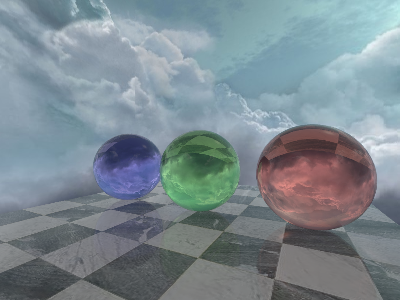
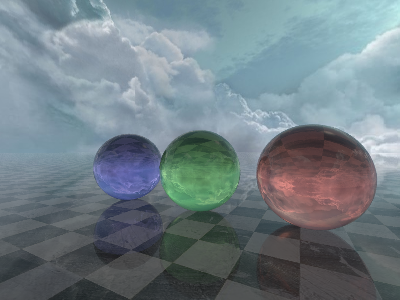
more code cleanup

diff --git a/example2.py b/example2.py
@@ -1,35 +1,41 @@
-# Import the necessary modules
-
-
 from sightpy import *
 
 
+# define materials to use
+
+blue_glass = Refractive(n = vec3(1.5 + 4e-8j,1.5 +  4e-8j,1.5 +  0.j)) # n = index of refraction
+green_glass = Refractive(n = vec3(1.5 + 4e-8j,1.5 + 0.j,1.5 + 4e-8j))
+red_glass = Refractive(n = vec3(1.5 + 0.j,1.5 +  5e-8j,1.5 +  5e-8j))
+
+floor = Glossy(diff_color = image("checkered_floor.png", repeat = 80.), n = vec3(1.2+ 0.3j, 1.2+ 0.3j, 1.1+ 0.3j), roughness = 0.2, spec_coeff = 0.3, diff_coeff = 0.9)
+
 # Set Scene 
 
-Sc = Scene()
+Sc = Scene(ambient_color = rgb(0.05, 0.05, 0.05))
+
 angle = np.pi/2 * 0.3
-Sc.add_Camera(look_from = vec3(2.5*np.sin(angle), 0.25, 2.5*np.cos(angle)  -1.5 ), look_at = vec3(0., 0.25, -1.5), 
-	          screen_width = 400 ,screen_height =300,
-	          samples_per_pixel = 4)
+Sc.add_Camera(look_from = vec3(2.5*np.sin(angle), 0.25, 2.5*np.cos(angle)  -1.5 ), 
+			  look_at = vec3(0., 0.25, -1.5), 
+	          screen_width = 400 ,
+	          screen_height =300)
 
 
-Sc.add_DirectionalLight(Ldir = vec3(0.0,0.5, 0.5),  color = rgb(0.5, 0.5, 0.5))
+Sc.add_DirectionalLight(Ldir = vec3(0.52,0.45, -0.5),  color = rgb(0.15, 0.15, 0.15))
 
-#blue_glass,red_glass and green_glass are defined in sightpy/materials/glasses.py
-Sc.add_Surface(Sphere(material = blue_glass, center = vec3(-1.2, 0.0, -1.5), radius = .5, shadow = False))
-Sc.add_Surface(Sphere(material = green_glass, center = vec3(0., 0.0, -1.5), radius = .5, shadow = False))
-Sc.add_Surface(Sphere(material = red_glass, center = vec3(1.2, 0.0, -1.5), radius = .5, shadow = False))
 
-#floor is defined in sightpy/materials/floor.py
-floor.set_texture("checkered_floor.png", repeat = 2.)
-Sc.add_Surface(Plane(material = floor,  center = vec3(0, -0.5, -1.5), width = 4.0,height = 4.0, pu = vec3(1.0, 0, 0), pv = vec3(0, 0, -1.0)))
+Sc.add(Sphere(material = blue_glass, center = vec3(-1.2, 0.0, -1.5), radius = .5, shadow = False ,max_ray_depth = 3))
+Sc.add(Sphere(material = green_glass, center = vec3(0., 0.0, -1.5), radius = .5, shadow = False,max_ray_depth = 3))
+Sc.add(Sphere(material = red_glass, center = vec3(1.2, 0.0, -1.5), radius = .5, shadow = False,max_ray_depth = 3))
 
-#see sightpy\backgrounds
+Sc.add(Plane(material = floor,  center = vec3(0, -0.5, -3.0), width = 120.0,height = 120.0, u_axis = vec3(1.0, 0, 0), v_axis = vec3(0, 0, -1.0) ,max_ray_depth = 3))
+
+
+#see sightpy/backgrounds
 Sc.add_Background("miramar.jpeg")
 
 
 # Render 
-img = Sc.render()
+img = Sc.render(samples_per_pixel = 7)
 
 img.save("EXAMPLE2.png")
 

diff --git a/example1.py b/example1.py
@@ -1,36 +1,45 @@
 from sightpy import *
 
+# define materials to use
+
+gold_metal = Glossy(diff_color = rgb(1., .572, .184), n = vec3(0.15+3.58j, 0.4+2.37j, 1.54+1.91j), roughness = 0.0, spec_coeff = 0.2, diff_coeff= 0.8) # n = index of refraction
+bluish_metal = Glossy(diff_color = rgb(0.0, 0, 0.1), n = vec3(1.3+1.91j, 1.3+1.91j, 1.4+2.91j), roughness = 0.2,spec_coeff = 0.5, diff_coeff= 0.3)
+
+floor =  Glossy(diff_color = image("checkered_floor.png", repeat = 80.),   
+	            n = vec3(1.2+ 0.3j, 1.2+ 0.3j, 1.1+ 0.3j), roughness = 0.2, spec_coeff = 0.3, diff_coeff= 0.9 )
+
+
+
+
 
 # Set Scene 
 Sc = Scene(ambient_color = rgb(0.05, 0.05, 0.05))
 
 
 angle = -np.pi/2 * 0.3
-Sc.add_Camera(look_from = vec3(2.5*np.sin(angle), 0.25, 2.5*np.cos(angle)  -1.5 ), look_at = vec3(0., 0.25, -3.), 
-	          screen_width = 400 ,screen_height = 300,  
-	          samples_per_pixel = 4) #antialiasing
+Sc.add_Camera(look_from = vec3(2.5*np.sin(angle), 0.25, 2.5*np.cos(angle)  -1.5 ), 
+			  look_at = vec3(0., 0.25, -3.), 
+	          screen_width = 400 ,
+	          screen_height = 300)
 
 
 
 Sc.add_DirectionalLight(Ldir = vec3(0.52,0.45, -0.5),  color = rgb(0.15, 0.15, 0.15))
 
 
-#gold_metal and bluish_metal are defined in sightpy/materials/metals.py
-Sc.add_Surface(Sphere(material = gold_metal, center = vec3(-.75, .1, -3.),radius =  .6))
-Sc.add_Surface(Sphere(material = bluish_metal, center = vec3(1.25, .1, -3.), radius = .6))
+Sc.add(Sphere(material = gold_metal, center = vec3(-.75, .1, -3.),radius =  .6, max_ray_depth = 3))
+Sc.add(Sphere(material = bluish_metal, center = vec3(1.25, .1, -3.), radius = .6, max_ray_depth = 3))
 
-#floor is defined in sightpy/materials/floor.py
-floor.set_texture("checkered_floor.png", repeat = 80.)
-Sc.add_Surface(Plane(material = floor,  center = vec3(0, -0.5, -3.0), width = 120.0,height = 120.0, pu = vec3(1.0, 0, 0), pv = vec3(0, 0, -1.0)))
+Sc.add(Plane(material = floor,  center = vec3(0, -0.5, -3.0), width = 120.0,height = 120.0, u_axis = vec3(1.0, 0, 0), v_axis = vec3(0, 0, -1.0),  max_ray_depth = 3))
 
-#see sightpy\backgrounds
+#see sightpy/backgrounds
 Sc.add_Background("stormydays.png")
 
 
 
 
 # Render 
-img = Sc.render()
+img = Sc.render(samples_per_pixel = 6)
 
 img.save("EXAMPLE1.png")
 

diff --git a/example3.py b/example3.py
@@ -1,32 +1,34 @@
 from sightpy import *
 
+# define materials to use
+
+floor = Glossy(diff_color = image("checkered_floor.png", repeat = 2.),  roughness = 0.2, spec_coeff = 0.3, diff_coeff = 0.7, n = vec3(2.2, 2.2, 2.2)) # n = index of refraction
+green_glass = Refractive(n = vec3(1.5 + 4e-8j,1.5 + 0.j,1.5 + 4e-8j)) 
+
 
 # Set Scene 
 
 Sc = Scene()
 Sc.add_Camera(look_from = vec3(0., 0.25, 1. ), look_at = vec3(0., 0.25, -3.),
-	          screen_width = 400 ,screen_height = 300,
-	          samples_per_pixel = 4)
+	          screen_width = 400 ,
+	          screen_height = 300)
 
 
 Sc.add_DirectionalLight(Ldir = vec3(0.0,0.5, 0.5),  color = rgb(0.5, 0.5, 0.5))
 
-floor = Material(shader = Glossy(diff_color = rgb(1.0, 1., 1.),  roughness = 0.2, spec_c = 0.3, diff_c = 0.7, max_ray_depth = 5, n = vec3(2.2, 2.2, 2.2)))
-floor.set_texture("checkered_floor.png", repeat = 2.)
-Sc.add_Surface(Plane(material = floor,  center = vec3(0, -0.5, -3.0), width = 6.0,height = 6.0, pu = vec3(1.0, 0, 0), pv = vec3(0, 0, -1.0)))
+Sc.add(Plane(material = floor,  center = vec3(0, -0.5, -3.0), width = 6.0,height = 6.0, u_axis = vec3(1.0, 0, 0), v_axis = vec3(0, 0, -1.0) , max_ray_depth = 5))
 
 
-green_glass = Material(shader = Refractive(n = vec3(1.5 + 4e-8j,1.5 + 0.j,1.5 + 4e-8j),  max_ray_depth = 5))
-cb = Cuboid( material = green_glass, center = vec3(0.00, 0.0001, -0.8), width = 0.9,height = 1.0, length = 0.4, shadow = False)
+cb = Cuboid( material = green_glass, center = vec3(0.00, 0.0001, -0.8), width = 0.9,height = 1.0, length = 0.4, shadow = False,  max_ray_depth = 5)
 cb.rotate(θ = 30, u = vec3(0,1,0))
-Sc.add_Surface(cb)
+Sc.add(cb)
 
 
-#see sightpy\backgrounds
+#see sightpy/backgrounds
 Sc.add_Background("stormydays.png")
 
 # Render 
-img = Sc.render()
+img = Sc.render(samples_per_pixel = 4)
 
 img.save("EXAMPLE3.png")
 

diff --git a/example4.py b/example4.py
@@ -8,19 +8,20 @@ Sc = Scene(ambient_color = rgb(0.01, 0.01, 0.01))
 
 angle = -np.pi*0.5 
 Sc.add_Camera(screen_height =300,  screen_width = 400 , 
-	          look_from = vec3(4.0*np.sin(angle), 0.00, 4.0*np.cos(angle)  ),  look_at = vec3(0., 0.05, 0.0), 
-	          samples_per_pixel = 	10)
+	          look_from = vec3(4.0*np.sin(angle), 0.00, 4.0*np.cos(angle)  ),  
+	          look_at = vec3(0., 0.05, 0.0)) 
+	          
 
 
-soap_bubble = Material(shader = ThinFilmInterference(thickness = 330, noise = 60., max_ray_depth = 5))
-Sc.add_Surface(Sphere(material = soap_bubble, center = vec3(1., 0.0, 1.5), radius = 1.7, shadow = False))
+soap_bubble = ThinFilmInterference(thickness = 330, noise = 60.)
+Sc.add(Sphere(material = soap_bubble, center = vec3(1., 0.0, 1.5), radius = 1.7, shadow = False, max_ray_depth = 5))
 
 
 Sc.add_Background("lake.png", light_intensity = 5., blur = 10.)
 
 
 # Render 
-img = Sc.render()
+img = Sc.render(samples_per_pixel = 10)
 
 img.save("EXAMPLE4.png")
 
